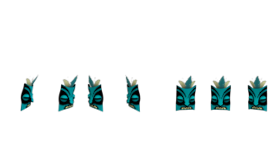
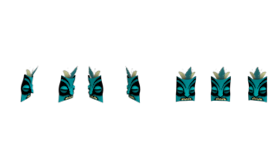
Nudge blue mask up 9px (in-game it sat too low)
User playtest: blue mask rendered too low on the head. Blue's per-colour
placement offset goes from oy=-11 to -20 (top = oy + 85, so a smaller oy
raises the mask). Only the blue sheet (m1.png) changes; the mask art is loaded
at runtime, so no exe rebuild is needed. Sheet-geometry tests still pass (the
supplied art is used verbatim, just seated higher in its cell).

Also filed the "Change Appearance for All" Tech-screen upgrade + VV5-style
mask distribution as a deferred to-do (memory), per the same session.

diff --git a/scripts/build_vv1_heathen_mask_sheets.py b/scripts/build_vv1_heathen_mask_sheets.py
@@ -71,7 +71,7 @@ COLOURS = ["blue", "orange", "red", "purple", "chief"]
 PACKED = "packed-atlas"
 
 MASK_OFFSETS = {
-    "blue": (20, -11),
+    "blue": (20, -20),  # nudged up 9px: user reported blue sat too low in-game
     "orange": (18, -12),
     "red": (18, -29),
     "purple": (4, -13),
